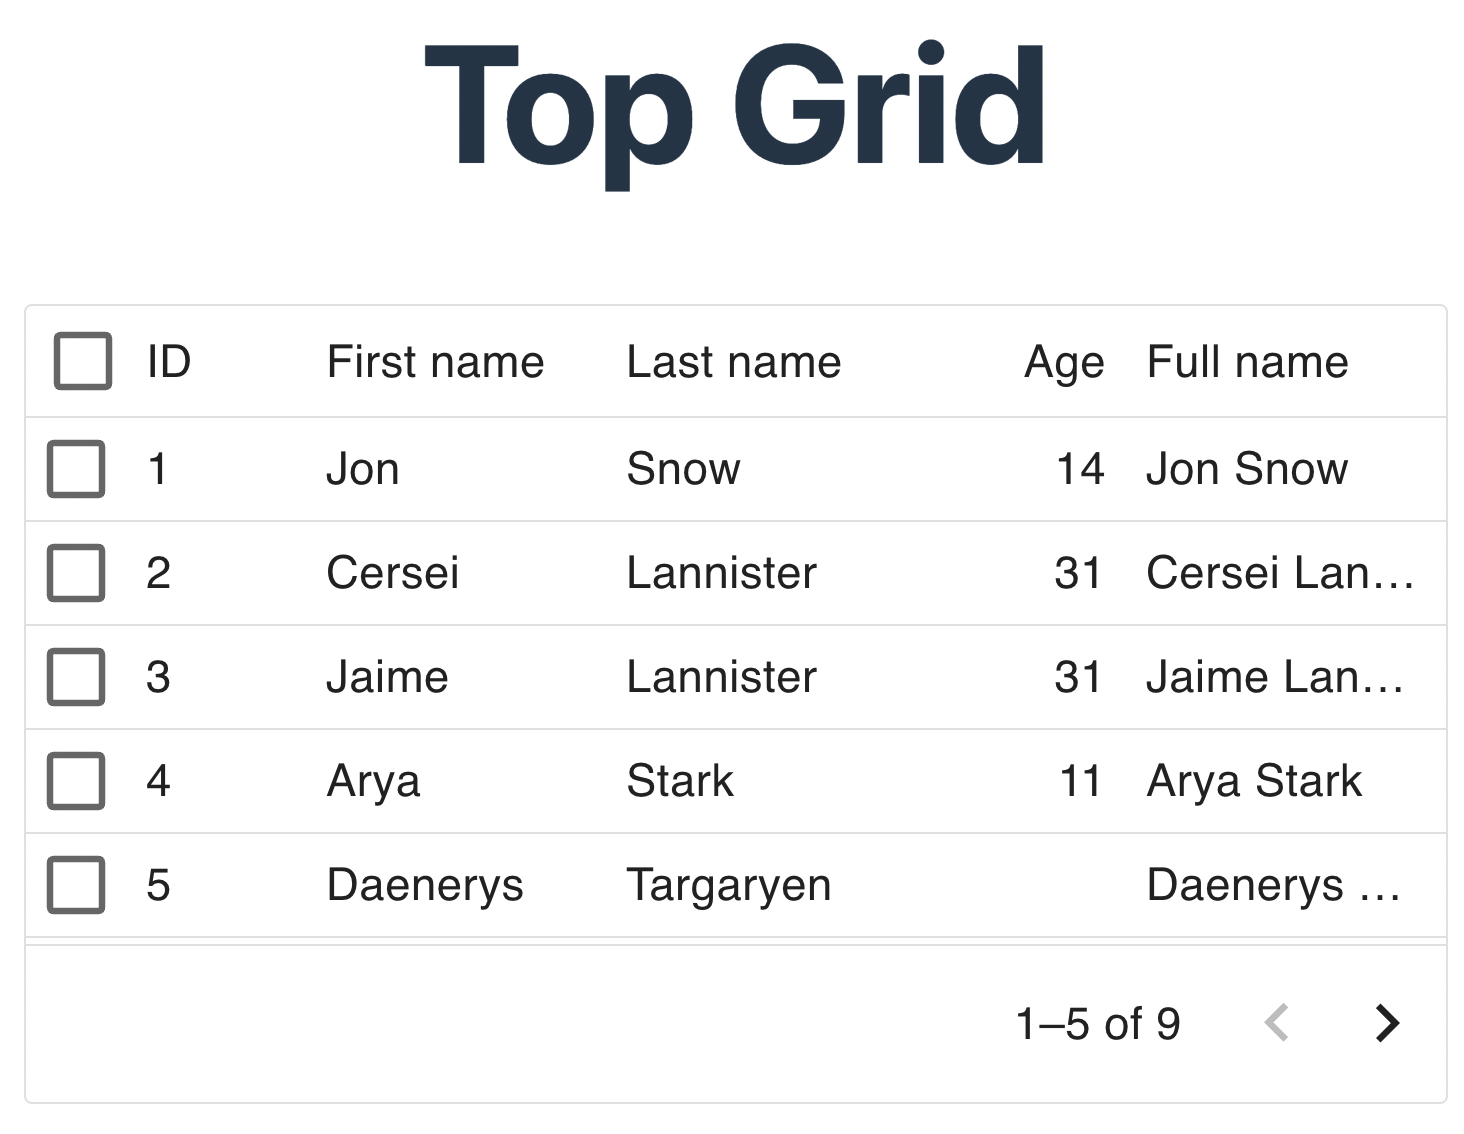
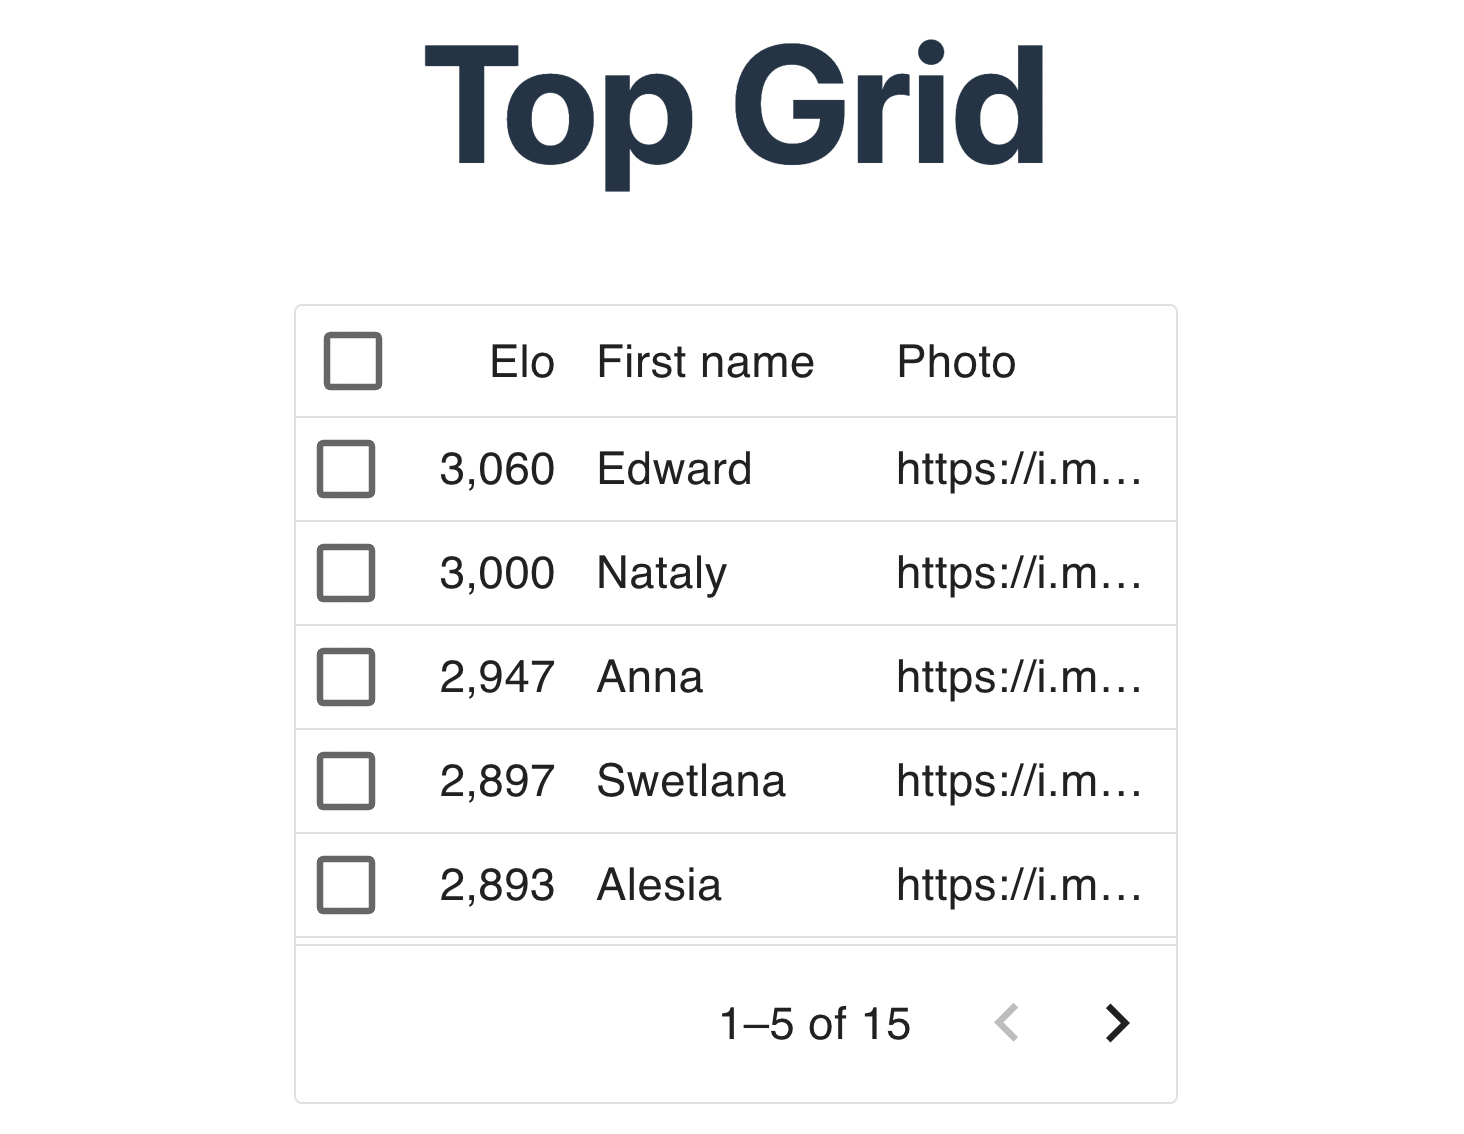
Remove unused code

diff --git a/top-grid/src/components/TopGrid.jsx b/top-grid/src/components/TopGrid.jsx
@@ -2,144 +2,41 @@
 
 import "./TopGrid.css";
 import { useState, useEffect } from "react";
-import PropTypes from "prop-types";
-import Collapse from "@mui/material/Collapse";
-import IconButton from "@mui/material/IconButton";
 import { DataGrid } from "@mui/x-data-grid";
-import Table from "@mui/material/Table";
-import TableBody from "@mui/material/TableBody";
-import TableCell from "@mui/material/TableCell";
-import TableContainer from "@mui/material/TableContainer";
-import TableHead from "@mui/material/TableHead";
-import TableRow from "@mui/material/TableRow";
-import Paper from "@mui/material/Paper";
-import KeyboardArrowDownIcon from "@mui/icons-material/KeyboardArrowDown";
-import KeyboardArrowUpIcon from "@mui/icons-material/KeyboardArrowUp";
 import { Box } from "@mui/material";
 
 const PHOTO_PATTERN = /^https:/i;
 const JSON_URL =
   "https://raw.githubusercontent.com/afarber/react-questions/main/top-grid/public/top-data.json";
 
-function Row(props) {
-  const { row } = props;
-  const [open, setOpen] = useState(false);
-
-  const wrongImgHandler = (photo) => {
-    return photo && PHOTO_PATTERN.test(photo) ? photo : "female_sad.png";
-  };
-
-  const imgErrorHandler = ({ currentTarget }) => {
-    // prevents looping
-    currentTarget.onerror = null;
-    currentTarget.src = "male_sad.png";
-  };
-
-  return (
-    <>
-      <TableRow>
-        <TableCell>
-          <IconButton onClick={() => setOpen(!open)}>
-            {open ? <KeyboardArrowUpIcon /> : <KeyboardArrowDownIcon />}
-          </IconButton>
-        </TableCell>
-        <TableCell component="th" scope="row">
-          {row.elo}
-        </TableCell>
-        <TableCell align="right">{row.given}</TableCell>
-        <TableCell align="center">
-          <img
-            src={wrongImgHandler(row.photo)}
-            className="avatar"
-            onError={imgErrorHandler}
-          />
-        </TableCell>
-      </TableRow>
-      <TableRow>
-        <TableCell style={{ paddingBottom: 0, paddingTop: 0 }} colSpan={4}>
-          <Collapse in={open} timeout="auto" unmountOnExit>
-            <Table size="small" sx={{ margin: 1 }} border="1">
-              <TableBody>
-                <TableRow>
-                  <TableCell>Average score:</TableCell>
-                  <TableCell>{row.avg_score}</TableCell>
-                </TableRow>
-                <TableRow>
-                  <TableCell>Average time:</TableCell>
-                  <TableCell>{row.avg_time}</TableCell>
-                </TableRow>
-              </TableBody>
-            </Table>
-          </Collapse>
-        </TableCell>
-      </TableRow>
-    </>
-  );
-}
-
-Row.propTypes = {
-  row: PropTypes.shape({
-    uid: PropTypes.number.isRequired,
-    elo: PropTypes.number.isRequired,
-    given: PropTypes.string.isRequired,
-    photo: PropTypes.string,
-    motto: PropTypes.string,
-    avg_time: PropTypes.string.isRequired,
-    avg_score: PropTypes.number.isRequired,
-  }).isRequired,
+const wrongImgHandler = (photo) => {
+  return photo && PHOTO_PATTERN.test(photo) ? photo : "female_sad.png";
 };
 
-export function TopTable() {
-  const [data, setData] = useState([]);
-
-  useEffect(() => {
-    fetch(JSON_URL)
-      .then((response) => response.json())
-      .then((jsonData) => setData(jsonData.data));
-  }, []);
-
-  console.log(data);
-
-  return (
-    <TableContainer component={Paper}>
-      <Table border="1">
-        <TableHead>
-          <TableRow>
-            <TableCell />
-            <TableCell>Elo</TableCell>
-            <TableCell align="right">Name</TableCell>
-            <TableCell align="right">Photo</TableCell>
-          </TableRow>
-        </TableHead>
-        <TableBody>
-          {data && data.map((row) => <Row key={row.uid} row={row} />)}
-        </TableBody>
-      </Table>
-    </TableContainer>
-  );
-}
+const imgErrorHandler = ({ currentTarget }) => {
+  // prevents looping
+  currentTarget.onerror = null;
+  currentTarget.src = "male_sad.png";
+};
 
 const columns = [
-  { field: "id", headerName: "ID", width: 90 },
   {
-    field: "firstName",
+    field: "elo",
+    headerName: "Elo",
+    type: "number",
+    width: 90,
+  },
+  {
+    field: "given",
     headerName: "First name",
     width: 150,
-    editable: true,
   },
   {
-    field: "lastName",
-    headerName: "Last name",
+    field: "photo",
+    headerName: "Photo",
     width: 150,
-    editable: true,
   },
-  {
-    field: "age",
-    headerName: "Age",
-    type: "number",
-    width: 110,
-    editable: true,
-  },
+  /*
   {
     field: "fullName",
     headerName: "Full name",
@@ -149,36 +46,26 @@ const columns = [
     valueGetter: (params) =>
       `${params.row.firstName || ""} ${params.row.lastName || ""}`,
   },
-];
-
-const rows = [
-  { id: 1, lastName: "Snow", firstName: "Jon", age: 14 },
-  { id: 2, lastName: "Lannister", firstName: "Cersei", age: 31 },
-  { id: 3, lastName: "Lannister", firstName: "Jaime", age: 31 },
-  { id: 4, lastName: "Stark", firstName: "Arya", age: 11 },
-  { id: 5, lastName: "Targaryen", firstName: "Daenerys", age: null },
-  { id: 6, lastName: "Melisandre", firstName: null, age: 150 },
-  { id: 7, lastName: "Clifford", firstName: "Ferrara", age: 44 },
-  { id: 8, lastName: "Frances", firstName: "Rossini", age: 36 },
-  { id: 9, lastName: "Roxie", firstName: "Harvey", age: 65 },
+  */
 ];
 
 export default function TopGrid() {
-  const [data, setData] = useState([]);
+  const [rows, setRows] = useState([]);
 
   useEffect(() => {
     fetch(JSON_URL)
       .then((response) => response.json())
-      .then((jsonData) => setData(jsonData.data));
+      .then((json) => setRows(json.data));
   }, []);
 
-  console.log(data);
+  console.log(rows);
 
   return (
     <Box sx={{ height: 400, width: "100%" }}>
       <DataGrid
         rows={rows}
         columns={columns}
+        getRowId={(row) => row.uid}
         initialState={{
           pagination: {
             paginationModel: {
